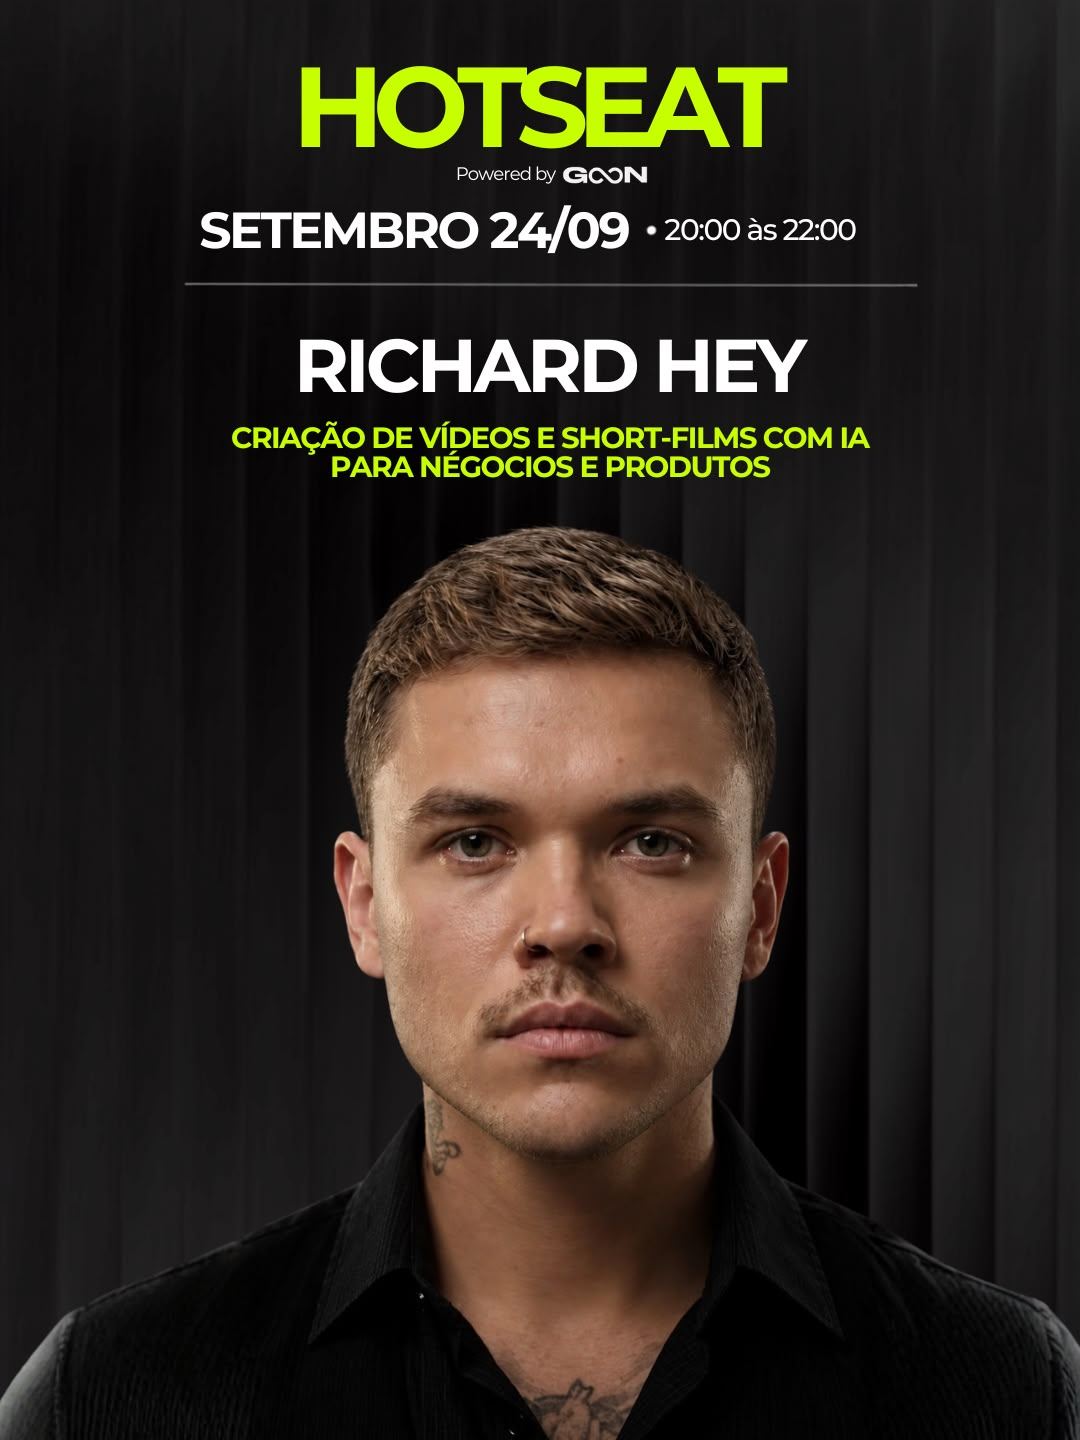
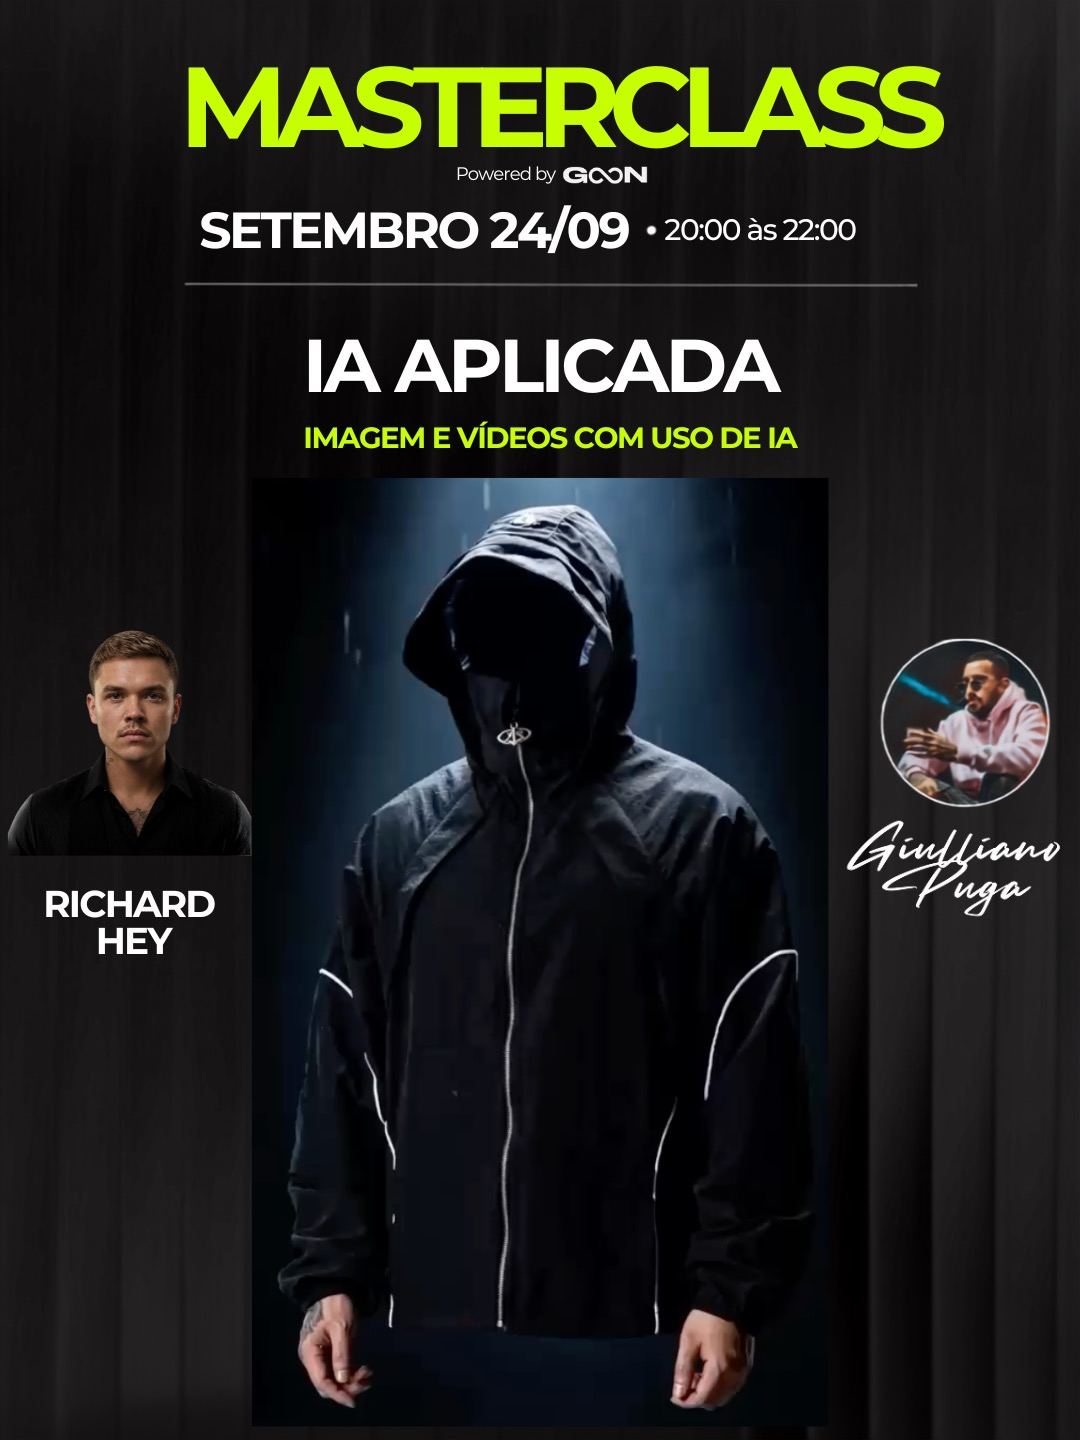
hotseat/masterclass: nova capa MASTERCLASS (IA Aplicada) + nome HOTSEAT->MASTERCLASS, palestrantes Richard Hey e Giulliano Puga

diff --git a/apps/web/src/app/hotseat/page.tsx b/apps/web/src/app/hotseat/page.tsx
@@ -5,7 +5,7 @@ import { useState } from 'react'
 const API_URL = process.env.NEXT_PUBLIC_API_URL ?? 'http://localhost:3001'
 const NEON = '#C7F900'
 const sans = 'var(--font-sans)', disp = 'var(--font-display)'
-const EVENT_NAME = 'HOTSEAT · 24/09 · Richard Hey'
+const EVENT_NAME = 'MASTERCLASS · 24/09 · IA Aplicada'
 
 const REVENUE_OPTIONS: { label: string; value: string }[] = [
   { label: 'Ainda não faturo', value: '' },
@@ -59,7 +59,7 @@ export default function HotseatPage() {
         {/* Pôster */}
         <div className="hs-poster">
           {/* eslint-disable-next-line @next/next/no-img-element */}
-          <img src="/hotseat.jpg" alt="HOTSEAT · Richard Hey · 24/09" style={{ width: '100%', height: 'auto', borderRadius: 16, border: '1px solid #1c1c22', display: 'block' }} />
+          <img src="/hotseat.jpg" alt="MASTERCLASS · IA Aplicada · 24/09 · Richard Hey e Giulliano Puga" style={{ width: '100%', height: 'auto', borderRadius: 16, border: '1px solid #1c1c22', display: 'block' }} />
         </div>
 
         {/* Form / confirmação */}
@@ -69,7 +69,7 @@ export default function HotseatPage() {
               <div style={{ width: 56, height: 56, borderRadius: '50%', background: NEON, color: '#0A0A0C', display: 'grid', placeItems: 'center', margin: '0 auto 16px', fontSize: 28, fontWeight: 800 }}>✓</div>
               <h2 style={{ fontFamily: disp, fontSize: 22, fontWeight: 700, margin: 0 }}>Presença confirmada!</h2>
               <p style={{ color: 'rgba(255,255,255,0.65)', fontSize: 14.5, lineHeight: 1.55, marginTop: 10 }}>
-                Você garantiu sua vaga no <b style={{ color: '#fff' }}>HOTSEAT</b> com o Richard Hey.<br />
+                Você garantiu sua vaga na <b style={{ color: '#fff' }}>MASTERCLASS</b> com Richard Hey e Giulliano Puga.<br />
                 Vamos te enviar os detalhes de acesso no seu <b style={{ color: NEON }}>WhatsApp</b>. Fica de olho! 🚀
               </p>
             </div>
@@ -82,7 +82,7 @@ export default function HotseatPage() {
                 </div>
                 <h1 style={{ fontFamily: disp, fontSize: 27, fontWeight: 800, letterSpacing: '-0.02em', margin: 0, lineHeight: 1.1 }}>Garanta sua vaga na masterclass</h1>
                 <p style={{ color: 'rgba(255,255,255,0.6)', fontSize: 14.5, lineHeight: 1.55, marginTop: 10 }}>
-                  Criação de vídeos e short-films com IA para negócios e produtos, com <b style={{ color: "#fff" }}>Richard Hey</b>. Preencha abaixo pra confirmar sua presença.
+                  IA aplicada: imagem e vídeos com uso de IA, com <b style={{ color: "#fff" }}>Richard Hey</b> e <b style={{ color: "#fff" }}>Giulliano Puga</b>. Preencha abaixo pra confirmar sua presença.
                 </p>
               </div>
 
@@ -122,7 +122,7 @@ export default function HotseatPage() {
                   </div>
                 </div>
                 <div>
-                  <label style={lbl}>O que você quer levar do HOTSEAT? <span style={{ color: 'rgba(255,255,255,0.35)', fontWeight: 400 }}>(opcional)</span></label>
+                  <label style={lbl}>O que você quer levar da masterclass? <span style={{ color: 'rgba(255,255,255,0.35)', fontWeight: 400 }}>(opcional)</span></label>
                   <textarea value={f.notes ?? ''} onChange={e => set('notes', e.target.value)} rows={2} placeholder="Seu maior desafio hoje…" style={{ ...inp, resize: 'vertical', lineHeight: 1.5 }} onFocus={focus} onBlur={blur} />
                 </div>
 
